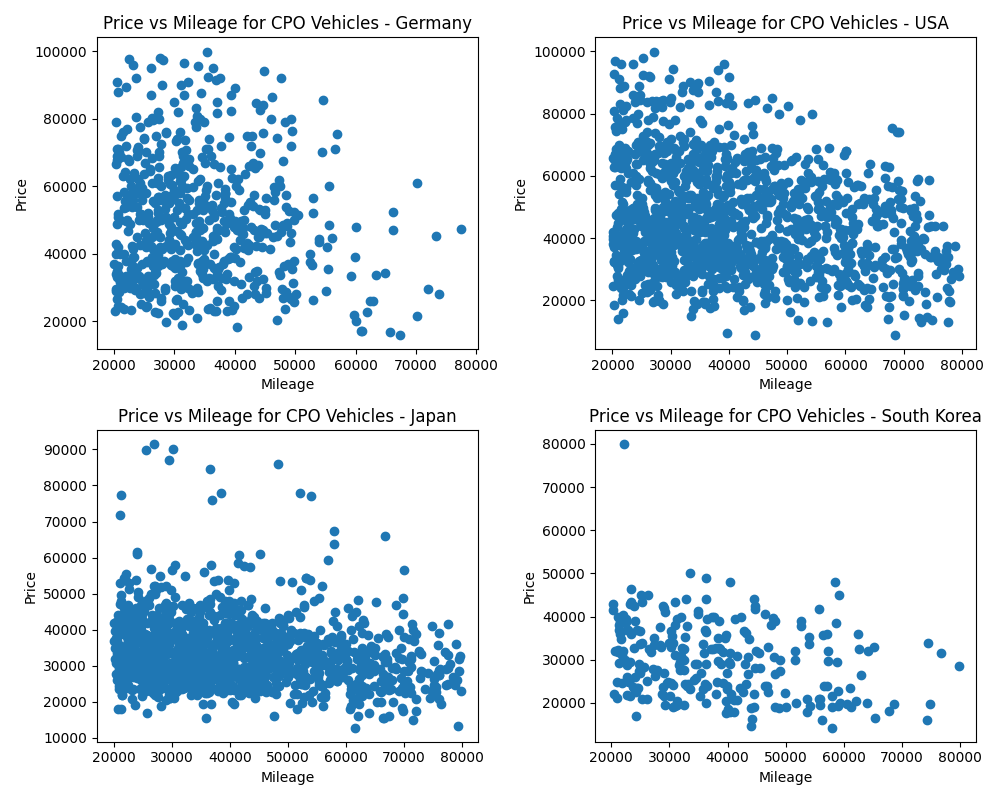
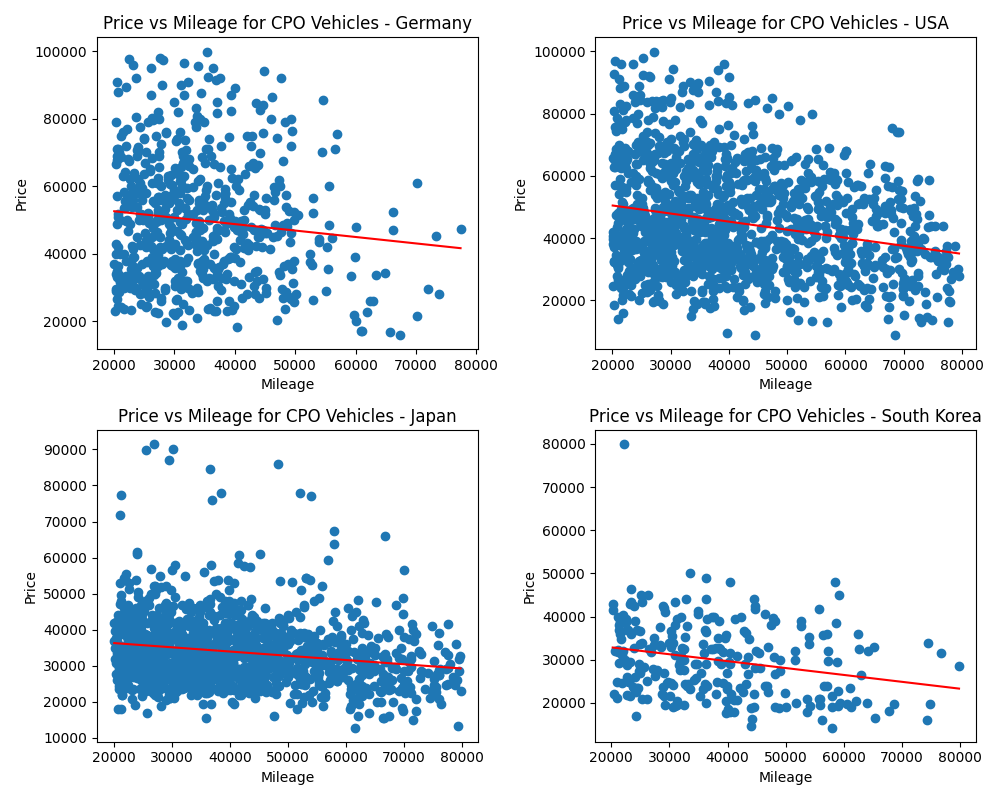
lotsofchanges

diff --git a/pricevmiles.py b/pricevmiles.py
@@ -1,21 +1,11 @@
 import pandas as pd
 import matplotlib.pyplot as plt
+import numpy as np
 
 # Read the CSV file into a pandas DataFrame
 data = pd.read_csv('output.csv', encoding='UTF-8', sep=',')
 
-# Filter out cars with zero mileage
-# filtered_data = data[data['Mileage'] > 20000]
-# filtered_data = filtered_data[filtered_data['Status'] == 'Certified']
-# filtered_data = filtered_data[filtered_data['Country'] == 'Germany']
 
-# Create the scatter plot
-# plt.scatter(filtered_data['Mileage'], filtered_data['Price'])
-# plt.xlabel('Mileage')
-# plt.ylabel('Price')
-# plt.title('Price vs Mileage')
-# plt.show()
-# Create subplots
 fig, axes = plt.subplots(2, 2, figsize=(10, 8))
 
 filtered_data = data[data['Mileage'] < 80000]
@@ -34,6 +24,7 @@ for i, country in enumerate(countries):
     ax.set_xlabel('Mileage')
     ax.set_ylabel('Price')
     ax.set_title(f'Price vs Mileage for CPO Vehicles - {country}')
+    ax.plot(np.unique(country_filter['Mileage']), np.poly1d(np.polyfit(country_filter['Mileage'], country_filter['Price'], 1))(np.unique(country_filter['Mileage'])), color='red')
 
 # Adjust the spacing between subplots
 plt.tight_layout()

diff --git a/data_manipulation.py b/data_manipulation.py
@@ -28,6 +28,21 @@ def add_msrp_data(data):
 def get_vehicle_msrp(make, model, year):
     return
 
+def manipulation_for_heatmap():
+    source = pd.read_csv('output.csv', encoding='UTF-8', sep=',')
+
+    # Compute average prices for each status type
+    average_prices_status = source.groupby('Status')['Price'].mean()
+    # Compute average prices for each country and status type
+    average_prices_country_status = source.groupby(['Country', 'Status'])['Price'].mean()
+
+    # Compute percentage deviation for each country and status
+    percentage_deviation = average_prices_country_status.to_frame()
+
+    percentage_deviation['Percentage Deviation'] = percentage_deviation.apply(lambda x: ((x['Price'] - average_prices_status[x.name[1]])/(average_prices_status[x.name[1]])) * 100, axis=1)
+
+    percentage_deviation.to_csv('pricebycountry.csv', index=True)
+
 ## depreciation by mileage
 ## get msrp from KBB http://developer.kbb.com/#!/idws/99-Swagger
 

diff --git a/pricebycountryheatmap.py b/pricebycountryheatmap.py
@@ -1,0 +1,30 @@
+import pandas as pd
+import plotly.graph_objects as go
+
+source = pd.read_csv('pricebycountry.csv', encoding='UTF-8', sep=',')
+
+
+# Create a heatmap
+fig = go.Figure(data=go.Heatmap(
+    z=source['Percentage Deviation'],
+    x=source['Status'],  
+    y=source['Country'],  
+    colorscale='Viridis',
+    colorbar=dict(title='Percentage Deviation'),
+    zmin=-100,
+    zmax=100
+))
+
+
+# Customize the layout
+fig.update_layout(
+    title='Car Prices Percentage Deviation by Country and Status',
+    xaxis=dict(title='Status'),  # Flipped x and y axis
+    yaxis=dict(title='Country'),  # Flipped x and y axis
+    autosize=False,
+    width=800,
+    height=600
+)
+
+# Display the heatmap
+fig.show()

diff --git a/pricemileyyearheatmap.py b/pricemileyyearheatmap.py
@@ -1,0 +1,24 @@
+import pandas as pd
+import seaborn as sns
+
+import matplotlib.pyplot as plt
+
+# Read the data from output.csv
+data = pd.read_csv('output.csv')
+
+# Select the columns for Price, Year, and Mileage
+selected_data = data[['Price', 'Year', 'Mileage']]
+
+# Calculate the correlation matrix
+correlation_matrix = selected_data.corr()
+
+# Create the heatmap
+sns.heatmap(correlation_matrix, annot=True, cmap='coolwarm')
+
+# Set the title and labels
+plt.title('Correlation Heatmap')
+plt.xlabel('Variables')
+plt.ylabel('Variables')
+
+# Display the heatmap
+plt.show()

diff --git a/pricebycountrybar.py b/pricebycountrybar.py
@@ -17,11 +17,3 @@ chart = alt.Chart(source).mark_bar().encode(
 save(chart, 'output.html')
 
 
-# alt.Chart(countries).mark_geoshape().encode(
-#     color='rate:Q'
-# ).transform_lookup(
-#     lookup='Country',
-#     from_=alt.LookupData(data=source, key='Country', fields=['rate'])
-# ).project(
-#     'naturalEarth1'
-# ).properties(width=600, height=400).configure_view(stroke=None)
